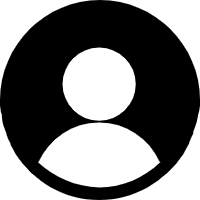
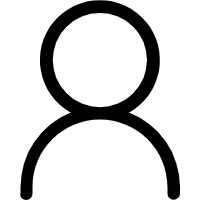
添加图片，修复一些小问题

diff --git a/Connect4/src/ui/components/CountdownTimer.java b/Connect4/src/ui/components/CountdownTimer.java
@@ -23,7 +23,8 @@ public class CountdownTimer extends JPanel {
 
     public CountdownTimer() {
         super();
-        //start = new JButton("Start");
+        this.setPreferredSize(new Dimension(50, 50));
+
         display = new JLabel(timeFormat(COUNTDOWN));
         timer = new Timer(ONE_SEC, new ActionListener() {
             @Override
@@ -37,7 +38,10 @@ public class CountdownTimer extends JPanel {
             }
         });
         timer.setRepeats(true);
+        display.setOpaque(false);
 
+        display.setHorizontalAlignment(SwingConstants.CENTER);
+        this.setLayout(new BorderLayout());
         this.add(display);
     }
 
@@ -56,4 +60,11 @@ public class CountdownTimer extends JPanel {
         this.callback = callback;
     }
 
+    //绘制背景图片
+    @Override
+    protected void paintComponent(Graphics g) {
+        super.paintComponent(g);
+        ImageIcon img = new ImageIcon(".\\res\\clock.png");
+        g.drawImage(img.getImage(), 0, 0, this.getWidth(), this.getHeight(), this);
+    }
 }

diff --git a/Connect4/src/ui/components/BtnGroup.java b/Connect4/src/ui/components/BtnGroup.java
@@ -35,11 +35,11 @@ public class BtnGroup extends JPanel {
 
                 switch (connectedBoard.getGameStatus()) {
                     case WIN:
-                        System.out.println("win!");
+                        //System.out.println("win!");
                         JOptionPane.showMessageDialog(null, connectedBoard.getCurrPlayer() + " wins!");
                         break;
                     case FAIL:
-                        System.out.println("fail!");
+                        //System.out.println("fail!");
                         JOptionPane.showMessageDialog(null, "Draw!");
                         break;
                     case CONTINUE:

diff --git a/Connect4/src/ui/MainWindow.java b/Connect4/src/ui/MainWindow.java
@@ -48,7 +48,14 @@ public class MainWindow {
 
         //计时器组件
         CountdownTimer timeDisplay = new CountdownTimer();
-        timeDisplay.setTimeoutCallback(() -> JOptionPane.showMessageDialog(null, panelChessBoard.getCurrPlayer() + " 超时了!")
+        timeDisplay.setTimeoutCallback(() -> {
+            JOptionPane.showMessageDialog(null,
+                    panelChessBoard.getCurrPlayer() + " 超时了!");
+            panelChessBoard.switchPlayer();
+            players[0].switchStatus();
+            players[1].switchStatus();
+            timeDisplay.restartCountdown();
+                }
         );
 
         // 按键组

diff --git a/Connect4/src/ui/components/PlayerPanel.java b/Connect4/src/ui/components/PlayerPanel.java
@@ -21,7 +21,7 @@ public class PlayerPanel extends JPanel {
         setBorder(border1);
 
         ImageIcon img_1 = new ImageIcon(".\\res\\player.png");
-        img_1.setImage(img_1.getImage().getScaledInstance(50, 50, Image.SCALE_DEFAULT));
+        img_1.setImage(img_1.getImage().getScaledInstance(45, 45, Image.SCALE_DEFAULT));
         icon = new JLabel(img_1);
 
         ImageIcon img_2 = new ImageIcon(".\\res\\chess.png");
